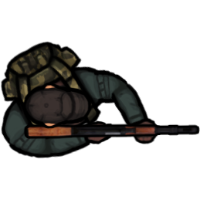
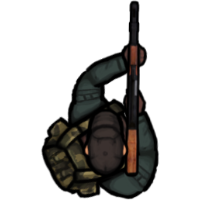
remove minNodes prop to add more node points for smoothness

diff --git a/js/Survivor.js b/js/Survivor.js
@@ -2,14 +2,12 @@ export default class Survivor {
 	constructor(x = 0, y = 0) {
 		this.width = 50;
 		this.height = 50;
-		this.x = 10;
-		this.y = 10;
+		this.x = 100;
+		this.y = 100;
 		this.width = 75;
 		this.height = 75;
-		this.rotate = 0; // Survivor is oriented at 90 degree angle
 		this.health = 100;
 		this.sprite = 'idle-0';
-		this.minNodes = 3;
 		this.routeNodes = [];
 	}
 
@@ -24,16 +22,13 @@ export default class Survivor {
 		const sprite = document.getElementById(this.sprite);
 		const xAxis = this.x + this.width / 2;
 		const yAxis = this.y + this.height / 2;
-		window.Canvas.ctx.translate(xAxis, yAxis);
-		window.Canvas.ctx.rotate(this.rotate);
-		window.Canvas.ctx.translate(xAxis * -1, yAxis * -1);
 		window.Canvas.ctx.drawImage(sprite, this.x, this.y, this.width, this.height);
 		//window.Canvas.ctx.strokeRect(this.x, this.y, this.width, this.height);
 		window.Survivor = this;
 	}
 
 	drawRoutePath(routeNodes) {
-		if (!routeNodes.length || (routeNodes.length && routeNodes.length < this.minNodes)) return;
+		if (!routeNodes.length) return;
 		window.Canvas.ctx.beginPath();
 		window.Canvas.ctx.moveTo(routeNodes[0].x, routeNodes[0].y);
 		routeNodes.forEach((node, index) => {
@@ -75,94 +70,105 @@ export default class Survivor {
 			clientCoords = null;
 			canvasBounds = window.Canvas.el.getBoundingClientRect();
 			clientCoords = { x: e.clientX - canvasBounds.x, y: e.clientY - canvasBounds.y };
-			if (
-				clientCoords.x > this.x &&
-				clientCoords.x < this.x + this.width &&
-				clientCoords.y > this.y &&
-				clientCoords.y < this.y + this.height &&
-				window.Settings.planning
-			) {
-				console.log('--selecting survivor');
-				routeNodes = [
-					{
-						x: this.x + this.width / 2,
-						y: this.y + this.height / 2,
-					},
-				];
 
-				onTarget = true;
+			if (!window.Settings.planning) return;
 
-				window.Canvas.el.classList.add('selecting');
-			}
+			console.log('--selecting survivor');
+
+			onTarget = true;
+			window.Canvas.el.classList.add('selecting');
+
+			routeNodes = [
+				{
+					x: this.x + this.width / 2,
+					y: this.y + this.height / 2,
+				},
+			];
 		};
 
 		// Draw route on mouse move
 		window.Canvas.el.onmousemove = (e) => {
-			if (onTarget) {
-				const previousNode = routeNodes[routeNodes.length - 1];
-				clientCoords = { x: e.clientX - canvasBounds.x, y: e.clientY - canvasBounds.y };
+			if (!onTarget) return;
 
-				console.log('--drawing route');
-				routeNodes.push(clientCoords);
-				if (routeNodes && routeNodes.length > this.minNodes) {
-					window.Canvas.clear();
-					this.drawRoutePath(routeNodes);
-					this.drawSurvivor();
-				}
+			console.log('--drawing route');
 
-				window.Canvas.el.classList.remove('selecting');
-				window.Canvas.el.classList.add('drawing');
-			}
+			window.Canvas.el.classList.remove('selecting');
+			window.Canvas.el.classList.add('drawing');
+			const previousNode = routeNodes[routeNodes.length - 1];
+			clientCoords = { x: e.clientX - canvasBounds.x, y: e.clientY - canvasBounds.y };
+
+			routeNodes.push(clientCoords);
+			window.Canvas.clear();
+			this.drawRoutePath(routeNodes);
+			this.drawSurvivor();
 		};
+
 		// Set final coords on mouse up
 		window.Canvas.el.onmouseup = (e) => {
-			if (onTarget && routeNodes.length > this.minNodes) {
-				console.log('--setting route');
-				this.routeNodes = routeNodes;
-			} else {
-				this.routeNodes = [];
-			}
+			console.log('--setting route');
+
+			window.Canvas.el.classList.remove('drawing');
+
+			this.routeNodes = routeNodes;
 			window.Canvas.clear();
 			this.drawRoutePath(routeNodes);
 			this.drawSurvivor();
 
 			onTarget = false;
-
-			window.Canvas.el.classList.remove('drawing');
 		};
 	}
+
+	orientSurvivor(nextX, nextY) {
+		let xDiff = 0;
+		if (nextX > this.x) xDiff = nextX - this.x;
+		if (this.x > nextX) xDiff = this.x - nextY;
+
+		let yDiff = nextY - this.y;
+		if (nextY > this.y) xDiff = nextY - this.y;
+		if (this.y > nextY) xDiff = this.y - nextY;
+
+		let theta = Math.atan2(yDiff, xDiff); // range (-PI, PI]
+		theta *= 180 / Math.PI; // rads to degs, range (-180, 180]
+
+		// if (theta >= 0 && theta < 45) this.sprite = 'move-90';
+		// if (theta >= 45 && theta < 90) this.sprite = 'move-180';
+		// if (theta >= 90 && theta < 135) this.sprite = 'move-180';
+		// if (theta >= 135 && theta < 180) this.sprite = 'move-270';
+		// if (theta >= 180 && theta < 225) this.sprite = 'move-225';
+		// if (theta >= 225 && theta < 270) this.sprite = 'move-270';
+		// if (theta >= 270 && theta < 315) this.sprite = 'move-315';
+		// if (theta >= 315 && theta <= 360) this.sprite = 'move-0';
+	}
+
 	// Moves survivor in direction of drawn route
 	moveSurvivor() {
-		if (this.routeNodes && this.routeNodes.length) {
-			let moveSpriteIndex = 0;
-			let nodeIndex = 0;
-			const fps = 10;
+		if (!this.routeNodes || (this.routeNodes && !this.routeNodes.length)) return;
+		let moveSpriteIndex = 0;
+		let nodeIndex = 0;
+		const fps = 5;
 
-			const _animate = () => {
-				this.x = this.routeNodes[nodeIndex].x - this.width / 2;
-				this.y = this.routeNodes[nodeIndex].y - this.height / 2;
-				if (moveSpriteIndex >= 20) moveSpriteIndex = 0;
-				this.sprite = `move-${moveSpriteIndex}`;
+		const _animate = () => {
+			this.x = this.routeNodes[nodeIndex].x - this.width / 2;
+			this.y = this.routeNodes[nodeIndex].y - this.height / 2;
+			const nextNode = this.routeNodes[nodeIndex + 1];
+			if (nextNode) {
+				this.orientSurvivor(nextNode.x - this.width / 2, nextNode.y - this.height / 2);
+			}
 
-				if (this.routeNodes.length - 2 === nodeIndex) {
-					this.sprite = 'idle-0';
+			window.Canvas.clear();
+			this.drawRoutePath(this.routeNodes);
+			this.drawSurvivor();
+
+			nodeIndex = nodeIndex + 1;
+			moveSpriteIndex = moveSpriteIndex + 1;
+
+			setTimeout(() => {
+				if (nodeIndex < this.routeNodes.length - 1) {
+					window.requestAnimationFrame(_animate);
 				}
+			}, 1000 / fps);
+		};
 
-				window.Canvas.clear();
-				this.drawRoutePath(this.routeNodes);
-				this.drawSurvivor();
-
-				nodeIndex = nodeIndex + 1;
-				moveSpriteIndex = moveSpriteIndex + 1;
-
-				setTimeout(() => {
-					if (nodeIndex < this.routeNodes.length - 1) {
-						window.requestAnimationFrame(_animate);
-					}
-				}, 1000 / fps);
-			};
-
-			_animate();
-		}
+		_animate();
 	}
 }

diff --git a/js/script.js b/js/script.js
@@ -18,14 +18,14 @@ window.onload = async function () {
 	image.setAttribute('alt', `survivor idle - 0`);
 	container.append(image);
 
-	const movingImageCount = 20;
-	for (let i = 0; i < movingImageCount; i++) {
+	const movingSprites = ['0', '45', '90', '135', '180', '225', '270', '315'];
+	movingSprites.forEach((key) => {
 		const image = document.createElement('img');
-		image.id = `move-${i}`;
-		image.src = `./assets/survivor/rifle/move/survivor-move_rifle_${i}.png`;
-		image.setAttribute('alt', `survivor move - ${i}`);
+		image.id = `move-${key}`;
+		image.src = `./assets/survivor/rifle/move/survivor-move_rifle_${key}.png`;
+		image.setAttribute('alt', `survivor move - ${key}`);
 		container.append(image);
-	}
+	});
 
 	// Allow images to load
 	await timeout(1000);
